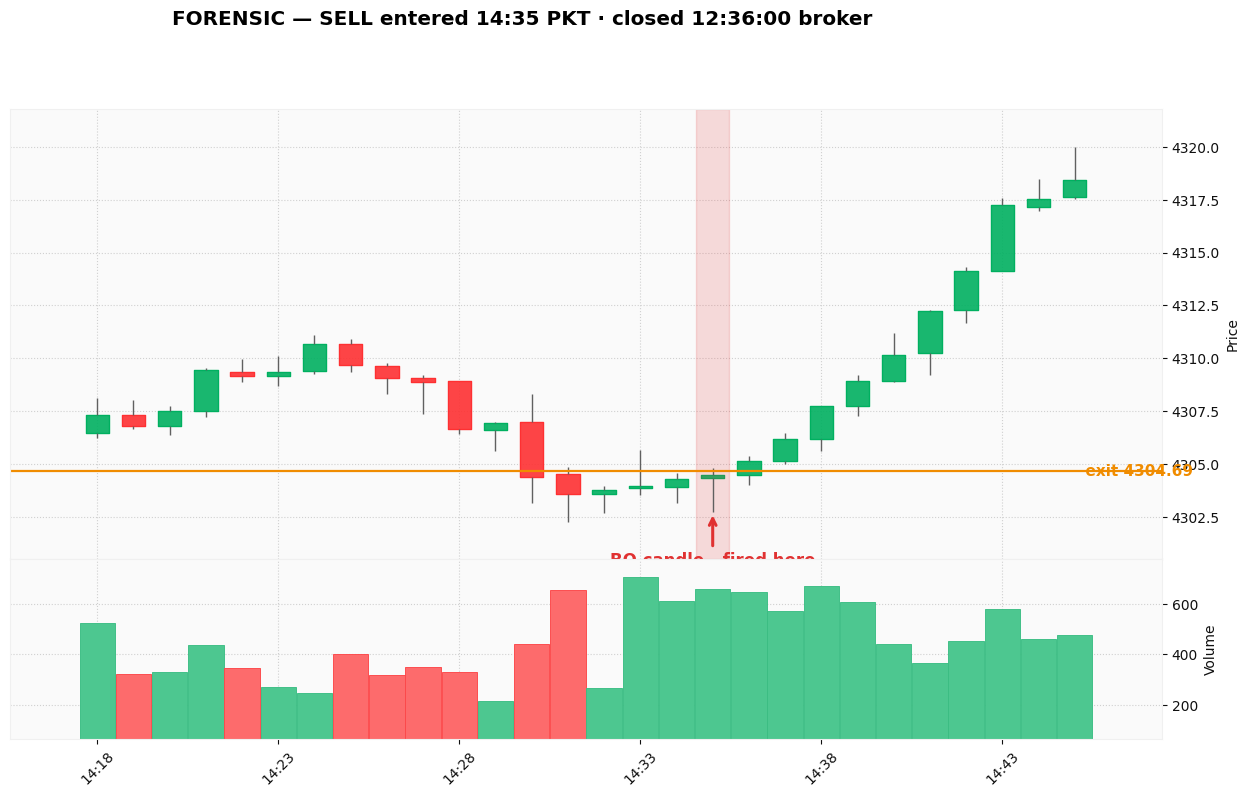
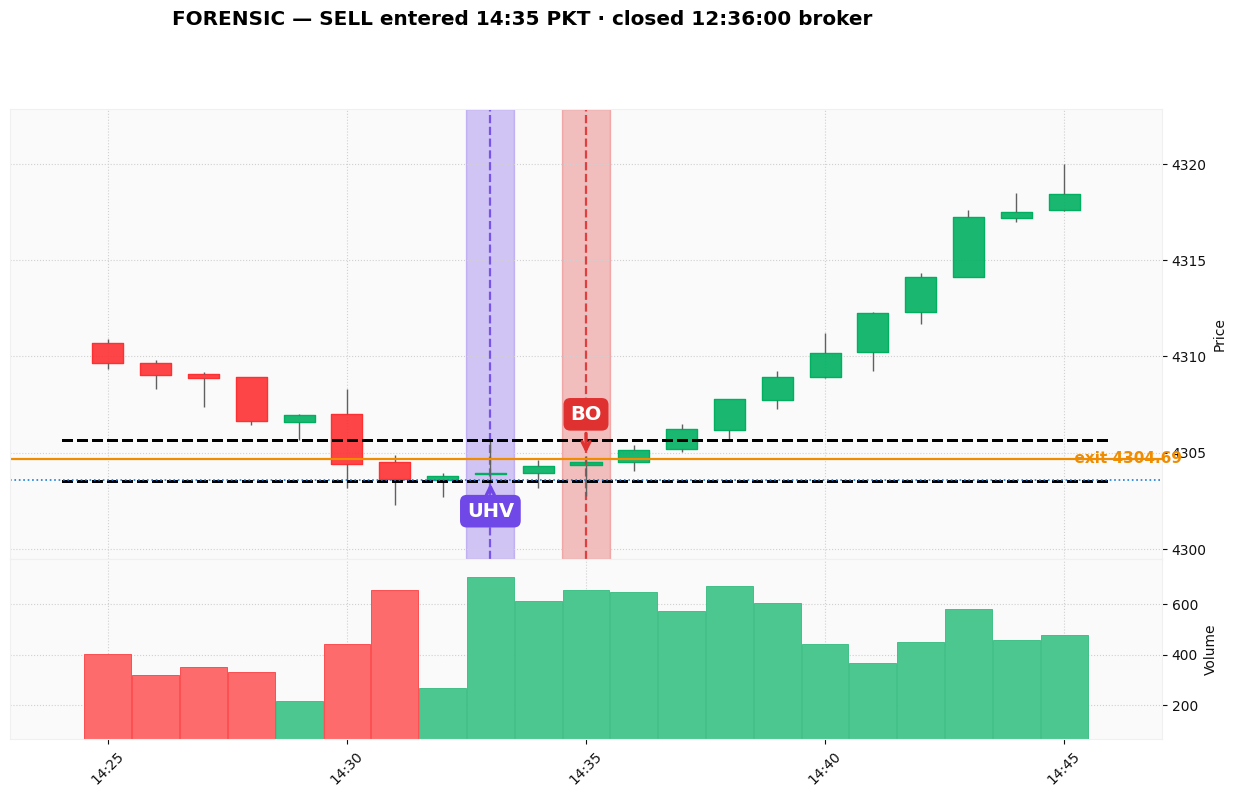
Forensic resolver bugfix (Zee: 'this graph is it showing the UHV? the others do'): the log line's date came from the FILL's date instead of the log FILENAME, so a fire from a previous day could match by time-of-day alone — it handed back a lamp 150 points away from the market and the UHV silently va

diff --git a/monitor/forensic_chart.py b/monitor/forensic_chart.py
@@ -122,7 +122,15 @@ def resolve_trade(broker_ts, side):
     """Return dict(entry_utc, lamp, uhv_utc, entry_px, exit_px) for one fill."""
     close_local = datetime.strptime(broker_ts, "%Y.%m.%d %H:%M:%S") + timedelta(hours=BROKER_TO_LOCAL_H)
     best = None
-    for lf in sorted(glob.glob(MT5D + "/MQL5/Logs/*.log"), key=os.path.getmtime)[-3:]:
+    for lf in sorted(glob.glob(MT5D + "/MQL5/Logs/*.log"), key=os.path.getmtime)[-4:]:
+        # BUGFIX 2026-08-07 (Zee spotted a chart with no UHV): the log line's date
+        # must come from the LOG FILENAME (20260807.log), not from the fill's date —
+        # otherwise a fire from a previous day matched by time-of-day alone and
+        # handed back a lamp 150 points away from the market.
+        stem = os.path.basename(lf)[:8]
+        if not stem.isdigit():
+            continue
+        day = datetime.strptime(stem, "%Y%m%d").date()
         for l in _read_log(lf):
             if "CaseExec" not in l or side not in l:
                 continue
@@ -131,8 +139,7 @@ def resolve_trade(broker_ts, side):
             m = re.search(r"(\d\d:\d\d:\d\d)", l)
             if not m:
                 continue
-            lt = datetime.combine(close_local.date(),
-                                  datetime.strptime(m.group(1), "%H:%M:%S").time())
+            lt = datetime.combine(day, datetime.strptime(m.group(1), "%H:%M:%S").time())
             if timedelta(0) <= (close_local - lt) <= timedelta(minutes=45):
                 if best is None or lt > best[0]:
                     best = (lt, l)
@@ -154,6 +161,24 @@ def resolve_trade(broker_ts, side):
             if abs(edge - lamp) < 0.06:
                 uhv_utc = r[0]
                 break
+    if uhv_utc is None:
+        # signal-path fire (no lamp in the line): ask the detector which UHV that
+        # breakout candle belonged to.
+        try:
+            sys.path.insert(0, str(Path(__file__).parent))
+            sys.path.insert(0, str(Path(__file__).parent / "strategy_lab"))
+            import oanda_live_matcher as _M, build_entry_review_m5 as _B
+            for k2, v2 in _M.CFG.items():
+                setattr(_B, k2, v2)
+            bb = _M.load_bars()
+            for st in _B.detect_full(bb):
+                if st["side"] == side and abs((st["open_t"] - entry_utc).total_seconds()) <= 120:
+                    uhv_utc = st["uhv_t"]
+                    if lamp is None:
+                        lamp = (bb[st["u"]].h if side == "BUY" else bb[st["u"]].l)
+                    break
+        except Exception:
+            pass
     return dict(entry_utc=entry_utc, lamp=lamp, uhv_utc=uhv_utc, fire=best[1].strip())
 
 
